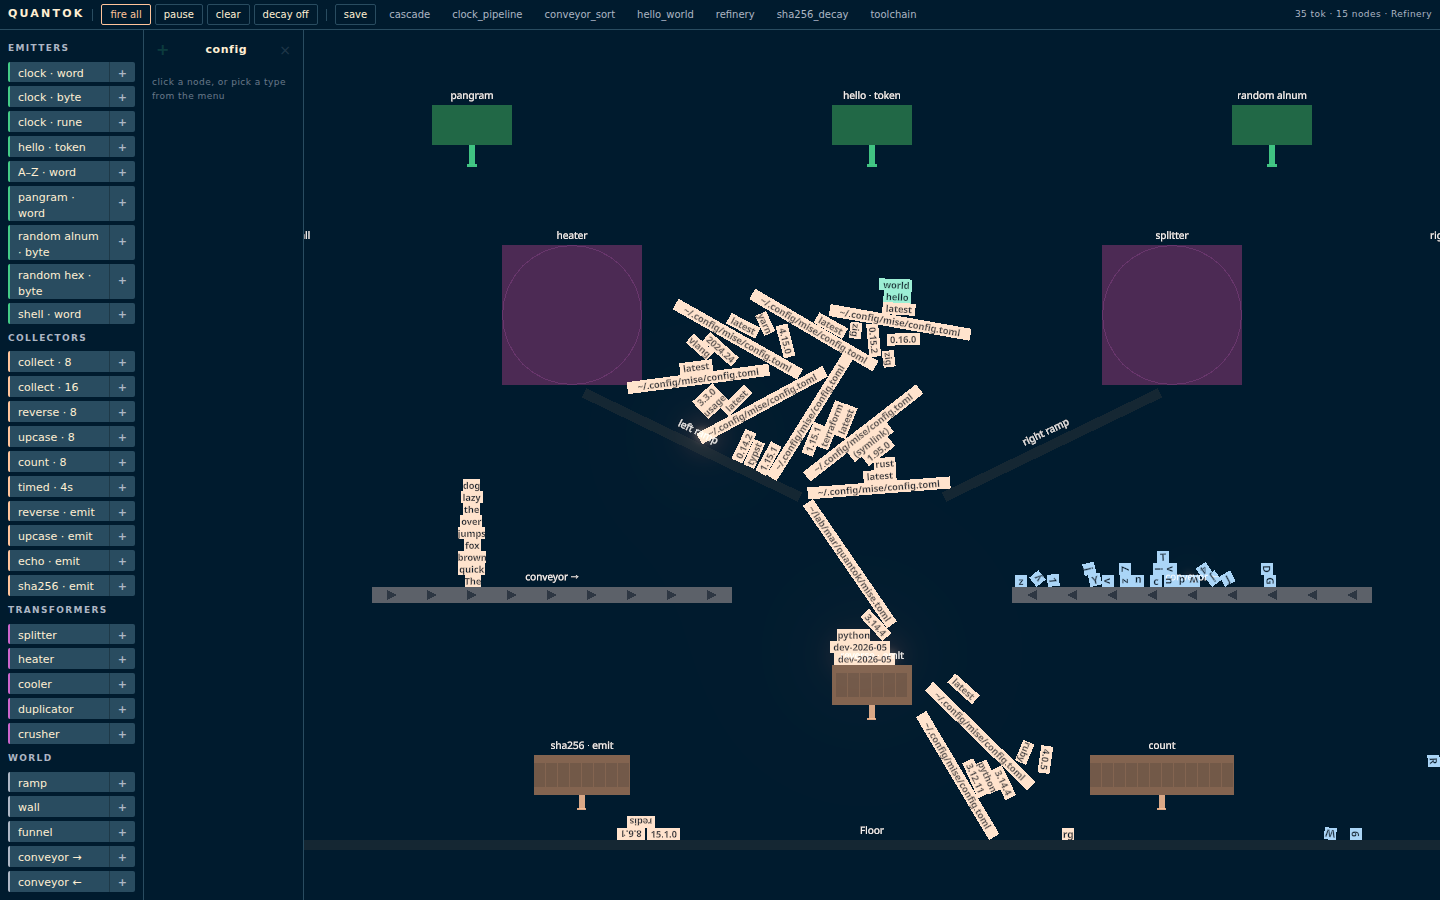
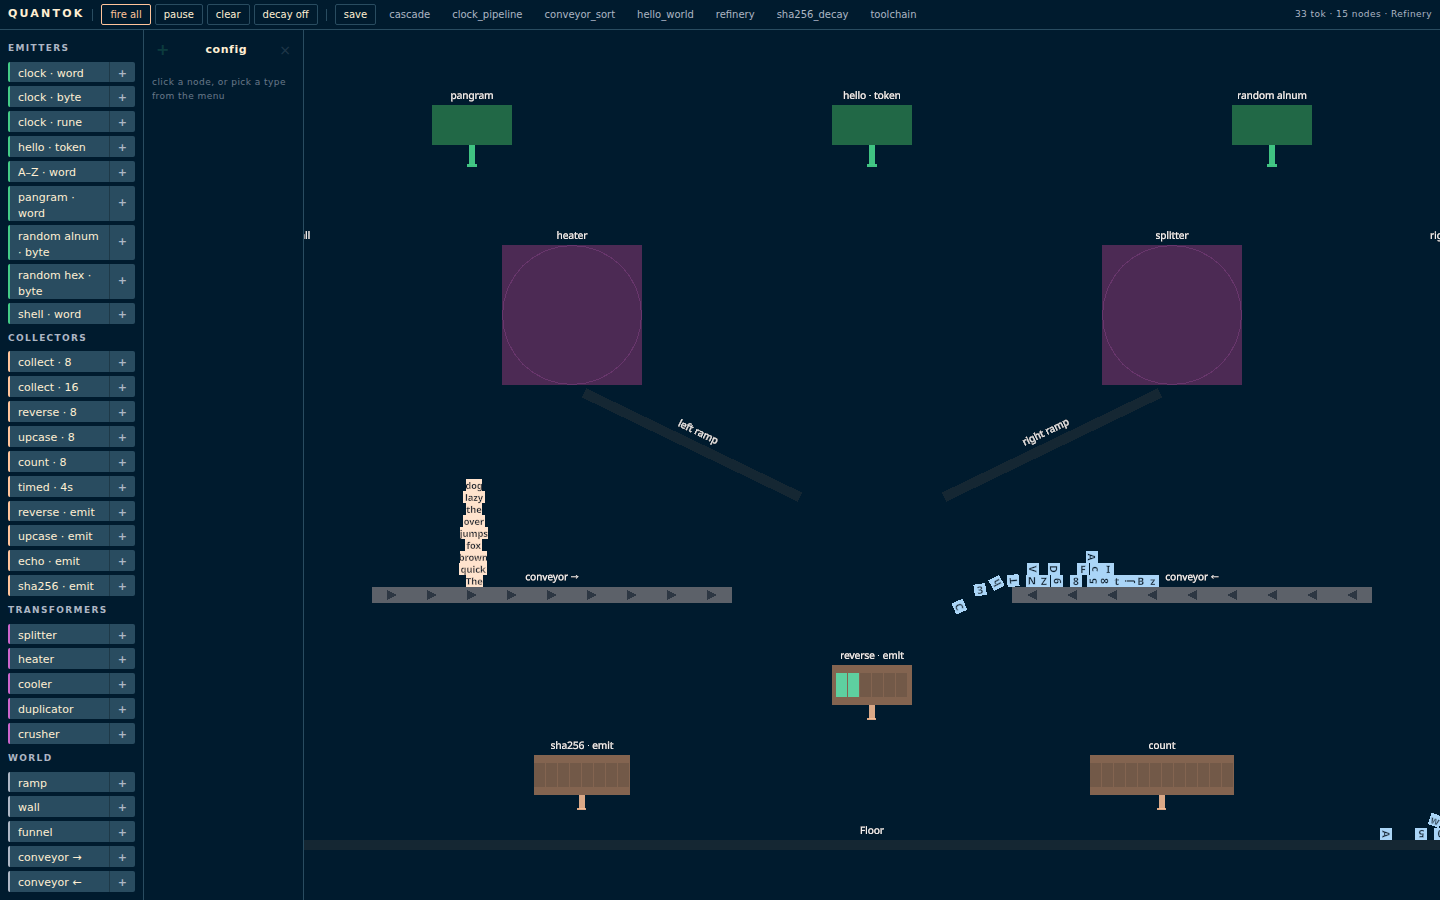
FPS readout, tokene cap at 500, mise list trimmed to name+version
- Header gains an FPS / live tokene-count readout (right side, dim).
  Updated client-side every ~500ms; phx-update=ignore keeps LiveView
  from clobbering it.
- maxTokenes=500 on the client; new spawns past the cap evict the
  oldest (FIFO) and notify the server via tokene_offscreen so its
  count stays in sync. Applied in both onEmitTokenes and the shatter
  fragment path.
- Toolchain preset's mise command is now
  `mise list | awk '{print $1, $2}'` so only name+version drop, not
  the long ~/.config/mise/config.toml column.
- Re-shot all four screenshots after the changes.

diff --git a/assets/js/quantok/world_hook.js b/assets/js/quantok/world_hook.js
@@ -35,6 +35,13 @@ const WorldCanvas = {
     this._pendingTimeouts = [];
     this._ready = false;
     this._eventQueue = [];
+    // Performance: cap tokenes alive at once. When exceeded, oldest are
+    // evicted (FIFO by insertion order in tokeneData).
+    this.maxTokenes = 500;
+    // FPS tracking
+    this._fpsFrames = 0;
+    this._fpsLast = performance.now();
+    this._fpsEl = document.getElementById("q-fps");
 
     // Register event handlers BEFORE async init so mount-time push_events are captured
     this.handleEvent("emit_tokenes", (data) => this._dispatch("emit_tokenes", data));
@@ -301,6 +308,7 @@ const WorldCanvas = {
         this.physics.spawnTokene(t.id, baseX, baseY, hw, hh, t.mass);
         this.worldRenderer.createTokeneMesh(t.id, t.value, t.encoding, t.width, t.height);
         this.tokeneData.set(t.id, { ...t, _spawnedAt: performance.now() });
+        this._enforceTokeneCap();
       }, i * (t.emit_rate || 100));
       this._pendingTimeouts.push(timer);
     });
@@ -361,6 +369,7 @@ const WorldCanvas = {
         if (body) body.setBodyType(this.rapier.RigidBodyType.Fixed);
       }
     });
+    this._enforceTokeneCap();
   },
 
   onTransformTokene({ old_tokene_id, new_tokenes }) {
@@ -532,7 +541,37 @@ const WorldCanvas = {
     // Render
     this.worldRenderer.render();
 
+    // FPS readout: roll over every ~500ms so the number is readable.
+    this._fpsFrames++;
+    const fpsDt = now - this._fpsLast;
+    if (fpsDt >= 500) {
+      const fps = Math.round((this._fpsFrames * 1000) / fpsDt);
+      if (this._fpsEl) {
+        this._fpsEl.textContent = `${fps} fps · ${this.tokeneData.size} tok`;
+      }
+      this._fpsFrames = 0;
+      this._fpsLast = now;
+    }
+
     this._rafId = requestAnimationFrame(() => this.animate());
+  },
+
+  /**
+   * Evict oldest tokenes when the count exceeds maxTokenes. Insertion order
+   * is preserved by Map so we just take the first N keys.
+   */
+  _enforceTokeneCap() {
+    const overflow = this.tokeneData.size - this.maxTokenes;
+    if (overflow <= 0) return;
+    let dropped = 0;
+    for (const id of this.tokeneData.keys()) {
+      if (dropped >= overflow) break;
+      this.physics.remove(id);
+      this.worldRenderer.removeTokene(id);
+      this.tokeneData.delete(id);
+      this.pushEvent("tokene_offscreen", { tokene_id: id });
+      dropped++;
+    }
   },
 
   applyConveyorForces() {

diff --git a/assets/css/app.css b/assets/css/app.css
@@ -176,6 +176,16 @@ body { margin: 0; overflow: hidden; }
   white-space: nowrap;
 }
 
+.q-fps {
+  font-size: 0.5625rem;
+  color: var(--q-slate);
+  letter-spacing: 0.05em;
+  white-space: nowrap;
+  font-variant-numeric: tabular-nums;
+  margin-right: 0.75rem;
+  opacity: 0.7;
+}
+
 /* Sidebar */
 .q-sidebar {
   flex: 0 0 9rem;
